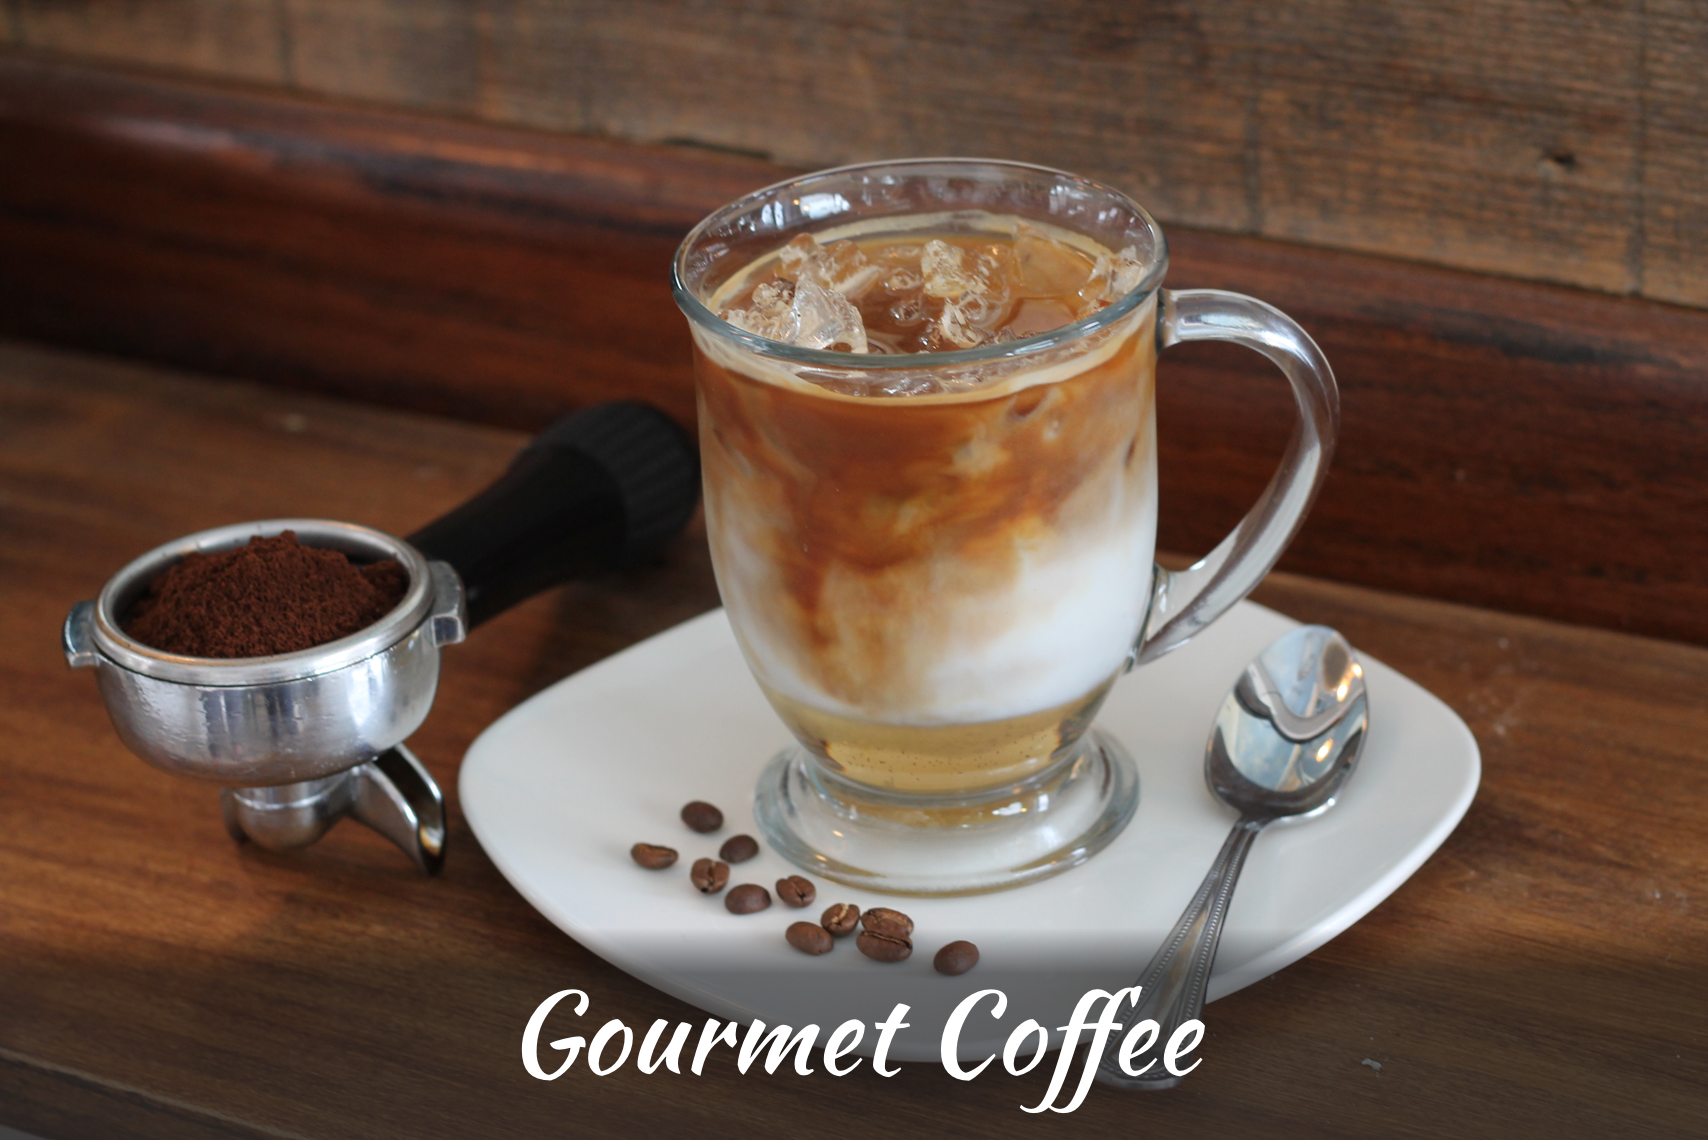
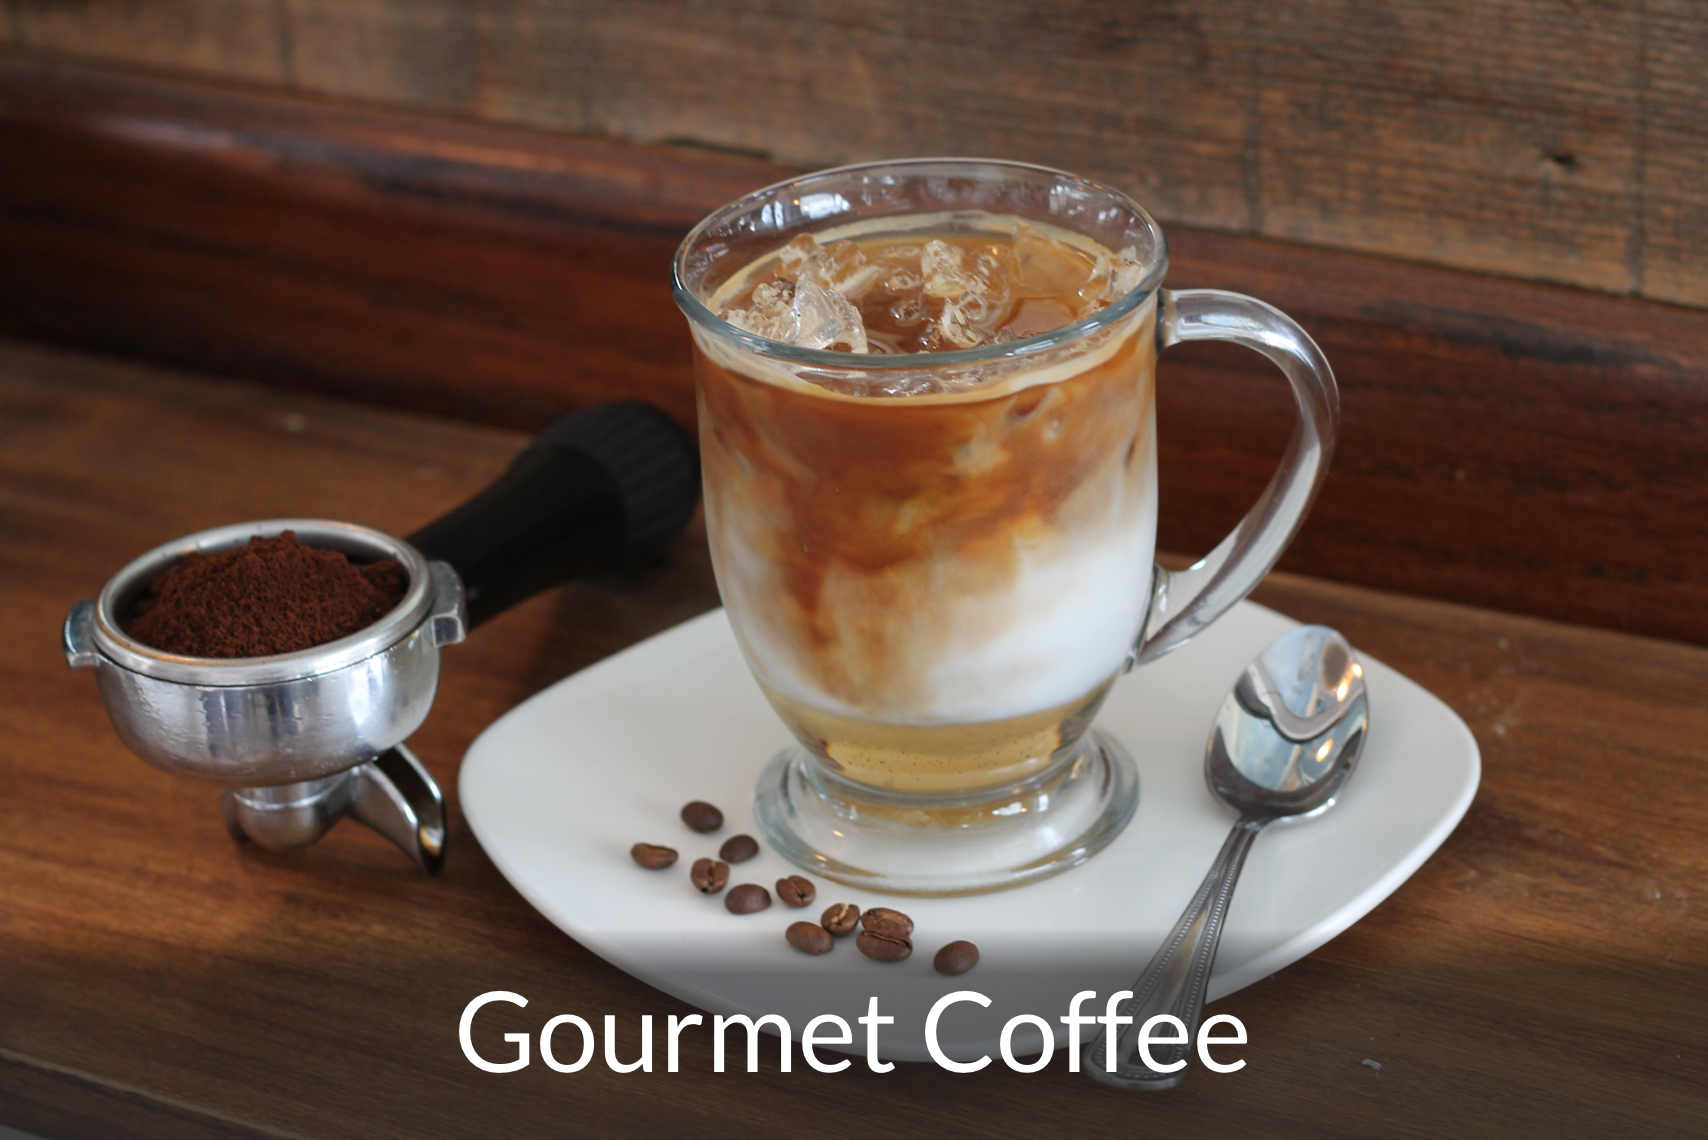
Changed header fonts, added sugar free pages

Changed region(s): [[0.2482, 0.8596, 0.7447, 0.9825]]

diff --git a/Froglanders/menu_froyo.html b/Froglanders/menu_froyo.html
@@ -273,13 +273,15 @@
 					</div>
 				</div>
 			</div>
+		</div>
+
+		<div class="sugarFree" style="background-color:#fff7ed">
+			<span class="cl-effect-3"><h3 class="sugarFreeText" style=" text-decoration:none; text-transform:none "><a href="sugarFree.html" style=" text-decoration:none; text-transform:none "> Tasty and healthy. See the sugar-free options we offer → </a></h3></span>
+		</div>
 
 
 
-
-
-
-
+		<div class="gtco-container">
 			<div class="row menuRow froyoMenuRow" >
 
 				<div class="row menuItemsRow">   <!-- START OF ACTUAL MENU -->

diff --git a/Froglanders/index.html b/Froglanders/index.html
@@ -344,7 +344,7 @@
 			<div class="gridtable">
 				<div class="gridrow">
 					<div data-animate-effect="fadeIn" id="box255" class="gridcell light" style="background-color: #9BE0BB;background-position: center center;background-image: url('images/landing/sugar.JPG')">
-						<a href="menu_froyo.html">
+						<a href="sugarFree.html">
 							<div class="inside">
 								<h2>Sugar-Free</h2>
 								<p>We care about your health<br><svg width="12" height="9"><path d="M 0 4.5 L 12 4.5 M 12 4.5 L 6 0 M 12 4.5 L 6 9" /></svg></p>

diff --git a/Froglanders/css/style2.css b/Froglanders/css/style2.css
@@ -2507,6 +2507,28 @@ form label {
 }
 
 
+.sugarFree h3{
+  color: red;
+  font-weight: 200;
+  text-align: center; 
+  padding: 5em 50px 5em 50px; 
+  margin: 1em 0;
+}
+
+.sugarFree h3:hover{
+  background-color: #E6EDDB;
+  transition: 1s;
+  color:#000000;
+}
+.sugarFree a{
+  color:#000000;
+}
+
+.sugarFree a:hover{
+  color:#000000;
+}
+
+
  @media screen and (max-width: 768px) {
  
   .flavorsRow{
